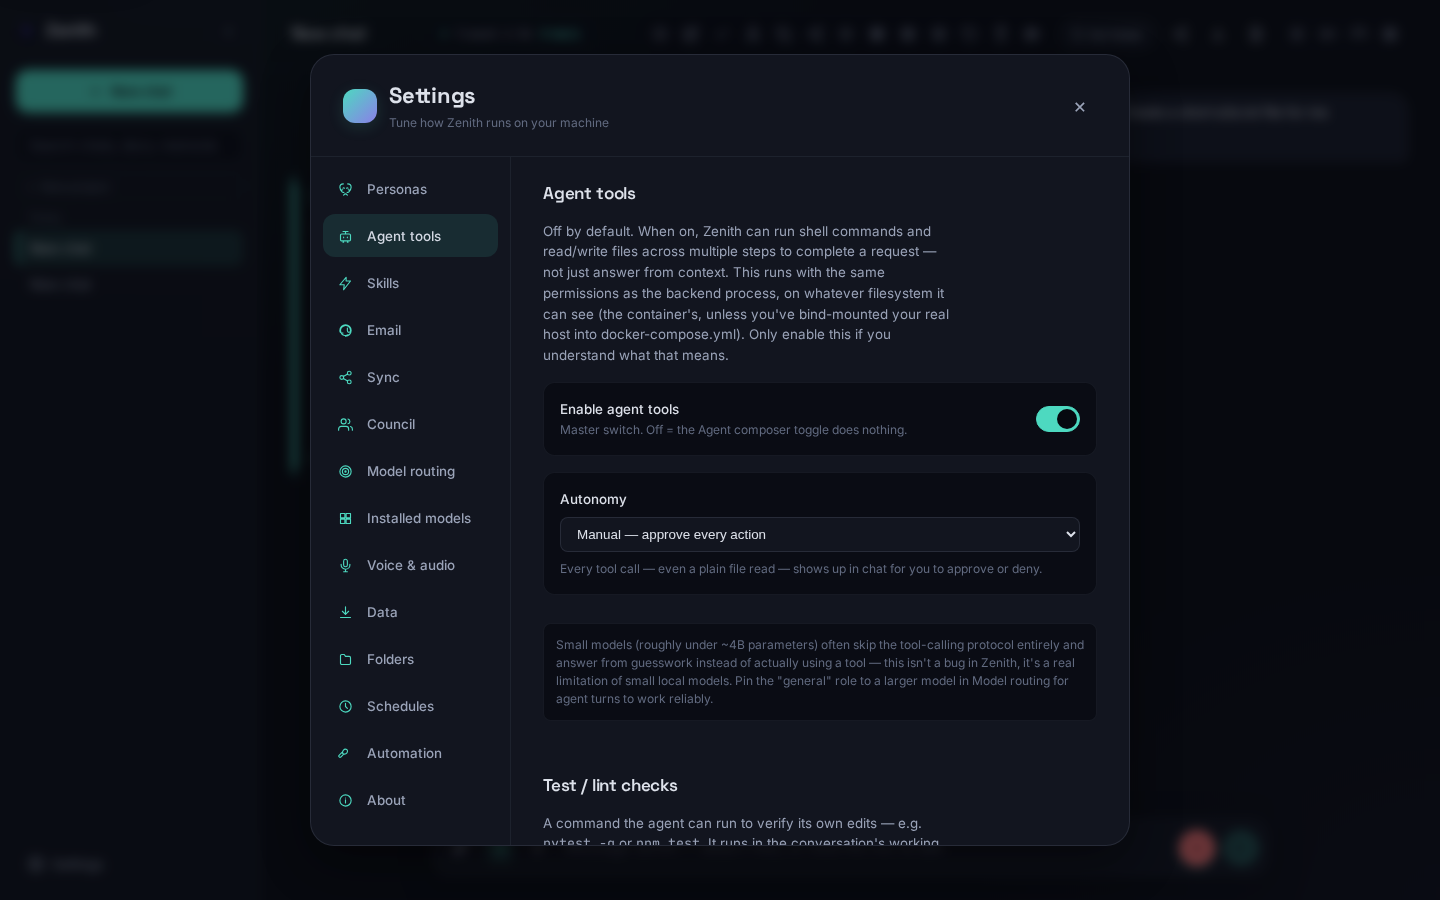
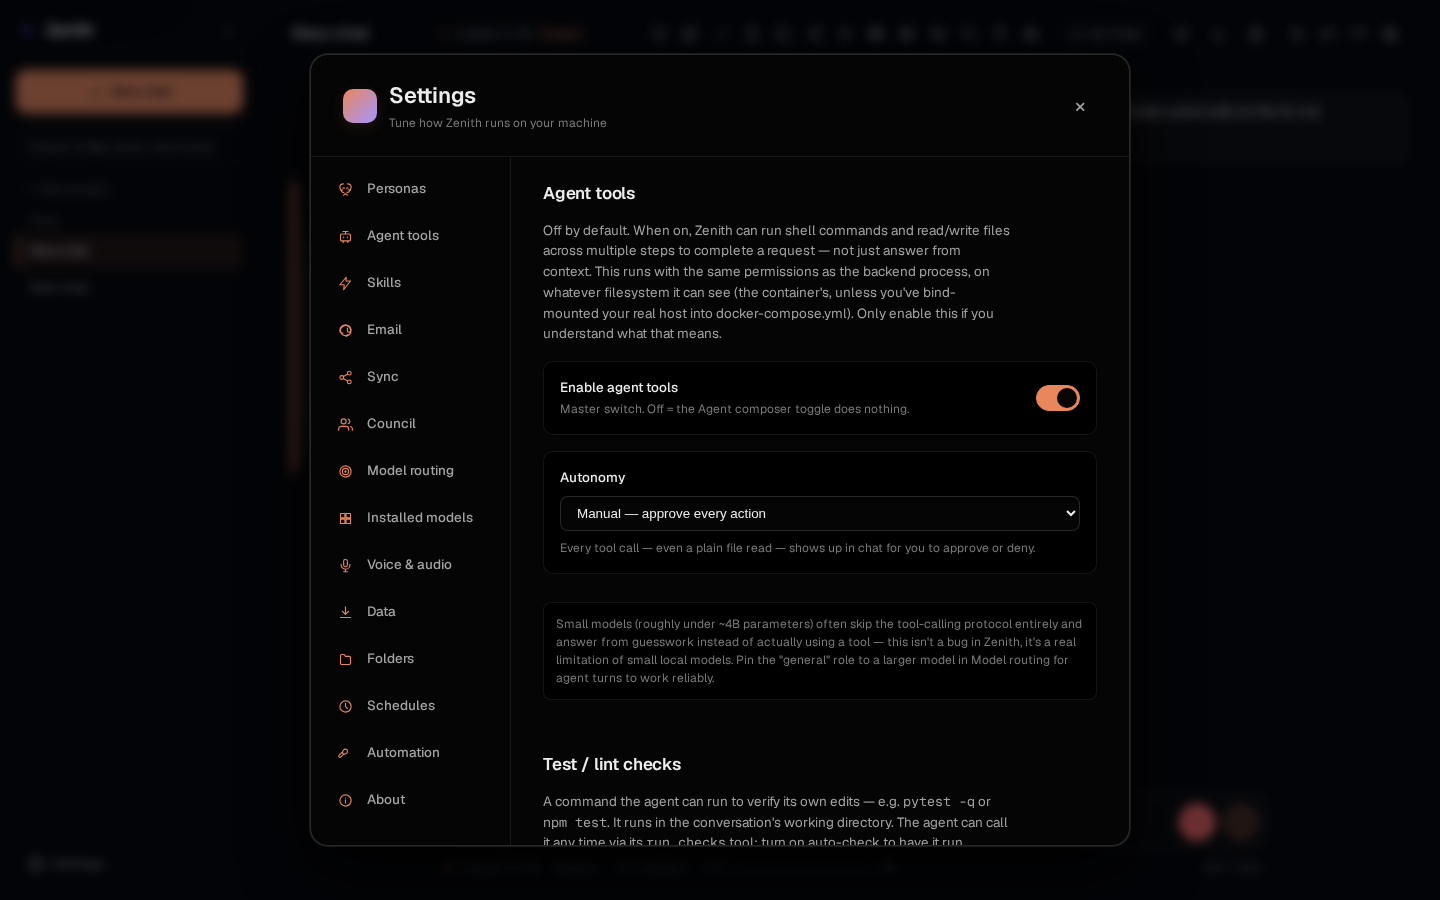
ui: OLED Ember theme and premium touches; version 0.10.0
- OLED Ember theme (default for new installs): true black, ember accent,
  Geist/Geist Mono bundled locally, hairline elevation, no ambient motion.
- Live thinking: star spinner with elapsed time, expandable reasoning
  that collapses to 'Thought for Ns'; 'waiting for you' during approvals.
- y / n approve or deny the pending step, Esc stops the reply; keycaps
  on the buttons (aria-keyshortcuts, names unchanged).
- Composer status line: model, mode + sandbox, context meter, tok/s.
- Boot splash with real health checks (once per session, skippable).
- Dithered empty state with starters from recent conversations.
- Trace sparklines; token rendering batched per animation frame.
- Settings: thinking mode and cloud routing toggles; cloud models marked
  in the per-message picker.
- Versions aligned at 0.10.0 (continuing the in-app 0.8/0.9 sequence).
E2E: 8 passing (adds keyboard approval and boot splash).

diff --git a/frontend/src/lib/changelog.ts b/frontend/src/lib/changelog.ts
@@ -9,6 +9,20 @@ export interface ChangelogEntry {
 
 export const CHANGELOG: ChangelogEntry[] = [
   {
+    version: "0.10.0",
+    date: "2026-10-30",
+    title: "OLED Ember, live thinking, and a security pass",
+    items: [
+      "New OLED Ember theme (now the default): true black, one warm accent, light as hierarchy.",
+      "Thinking models stream their reasoning live; everyday replies no longer wait for it.",
+      "Replies finish instantly: memory and indexing now run after the answer, not before.",
+      "Your chats never auto-route to Ollama Cloud models; routing picks the best model your GPU can run.",
+      "Approve or deny agent steps with y / n, stop with Esc; a status line shows model, context and speed.",
+      "Security: localhost-only by default, secrets never returned by the API, optional Docker sandbox for the agent.",
+      "Document search runs on real vectors (it silently fell back to keywords before) — in the desktop app too.",
+    ],
+  },
+  {
     version: "0.9",
     date: "2026-08-01",
     title: "Search, diagnostics, and finishing touches",

diff --git a/frontend/src/components/MessageBubble.jsx b/frontend/src/components/MessageBubble.jsx
@@ -479,12 +479,16 @@ export default function MessageBubble({
           <div className="msg-content">
             {message.streaming && !message.content ? (
               <>
-                {message.thinking ? (
+                {(message.toolCalls || []).some((tc) => tc.status === "pending") || message.plan?.status === "pending" ? (
+                  <span className="awaiting-you" role="status">
+                    <span aria-hidden="true">◆</span> waiting for you — <kbd className="keycap">y</kbd> approve · <kbd className="keycap">n</kbd> deny
+                  </span>
+                ) : message.thinking ? (
                   <LiveThinking text={message.thinking} active />
                 ) : (
                   <StarSpinner role={message.route_role} />
                 )}
-                <SlowReplyHint />
+                {!((message.toolCalls || []).some((tc) => tc.status === "pending") || message.plan?.status === "pending") && <SlowReplyHint />}
               </>
             ) : (
               <>

diff --git a/frontend/src/components/settings/AboutSection.jsx b/frontend/src/components/settings/AboutSection.jsx
@@ -9,7 +9,7 @@ export default function AboutSection() {
         A local-first AI cockpit — chat, agent tools, email, calendar, notes, research,
         and multi-device sync, all running on your own machine. No cloud, no accounts.
       </p>
-      <p className="setting-hint">Version 0.9 · built on Ollama</p>
+      <p className="setting-hint">Version 0.10.0 · built on Ollama</p>
     </section>
   );
 }

diff --git a/frontend/src/styles/app.css b/frontend/src/styles/app.css
@@ -3918,3 +3918,9 @@ button.msg-source-chip-recall:hover {
 .traces-spark { font-size: var(--text-base); letter-spacing: 1px; white-space: pre; overflow: hidden; }
 .traces-spark-speed { color: var(--signal-code); }
 .traces-spark-ttft { color: var(--signal-general); }
+
+.awaiting-you {
+  font-family: var(--font-mono);
+  font-size: var(--text-sm);
+  color: var(--signal-general);
+}

diff --git a/backend/app/main.py b/backend/app/main.py
@@ -223,7 +223,7 @@ async def lifespan(app: FastAPI):
 
 app = FastAPI(
     title="Zenith",
-    version="0.1.0",
+    version="0.10.0",
     lifespan=lifespan,
     description="Local-first AI chat with a small router over local Ollama models.",
 )

diff --git a/CHANGELOG.md b/CHANGELOG.md
@@ -1,8 +1,18 @@
 # Changelog
 
-## [Unreleased] — hardening
+## [0.10.0] — 2026-10-30
 
-### Security
+Version numbers jump to continue the in-app "What's new" sequence (0.8, 0.9);
+the 0.2.0 entry below was an internal development milestone.
+
+### Highlights
+- OLED Ember theme (default for new installs), boot splash with health checks, live "thinking" stream, status line, y/n/Esc keys, dithered empty state, trace sparklines.
+- Thinking models no longer stall replies (`thinking_mode`: auto/on/off); post-reply work moved off the critical path.
+- Chats never auto-route to Ollama Cloud models (`route_to_cloud_models`, off); hardware-aware model choice; specialised models kept out of the general pool.
+- Desktop: sqlite-vec now bundled (vector search worked only in dev before); pinned PyInstaller toolchain fixes the hung Windows build; macOS build added.
+
+
+### Security (hardening)
 - Backend binds to 127.0.0.1 by default; remote clients are refused until a passcode or shared secret exists; DNS-rebinding protection (Host allowlist).
 - `/api/config` no longer returns the email password, shared secret or passcode hash; settings history redacts secrets (existing rows scrubbed).
 - Passcode lock: per-install salt, 600k PBKDF2, unlock tokens are HMACs (not the hash), brute-force backoff.
